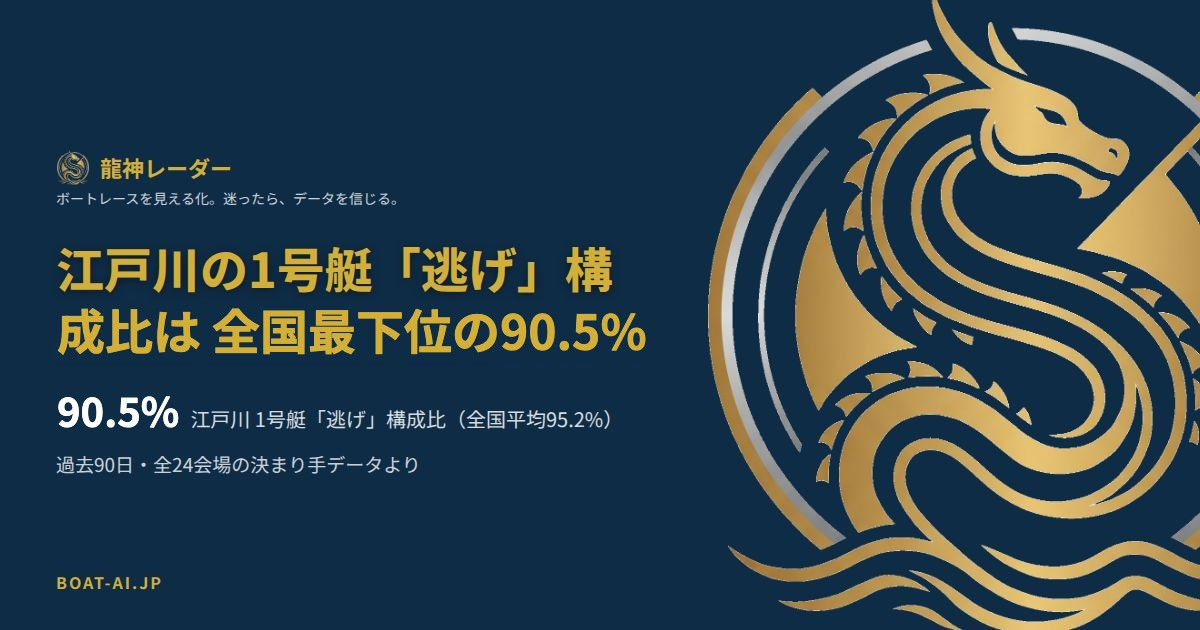
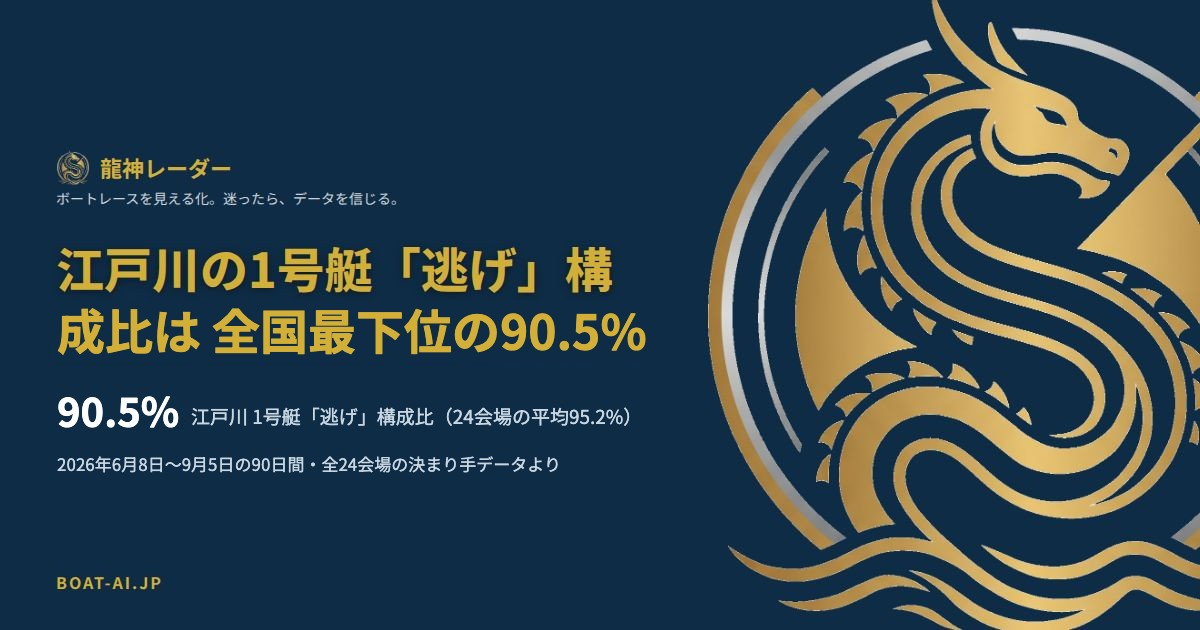
content(blog): edogawa-nige-technique-share の表紙の語と期間、見出しの断定、検定の説明を直す

Changed region(s): [[0.1542, 0.6333, 0.5242, 0.6937], [0.0308, 0.7238, 0.4625, 0.754]]

diff --git a/public/blog/edogawa-nige-technique-share.md b/public/blog/edogawa-nige-technique-share.md
@@ -16,7 +16,7 @@
 
 ## 実データ：江戸川90.5% vs 24会場の平均95.2%
 
-記事の公開前日までの90日間（2026年6月8日〜9月5日、中止を除き決まり手のあるレース）の実レース結果から、「1号艇が1着になったレースのうち、決まり手が『逃げ』だったレースの割合」を24会場すべてで集計し、順位をつけました。決まり手データ分析の画面と同じ数え方です。
+記事の公開前日までの90日間（2026年6月8日〜9月5日、中止を除き決まり手のあるレース）の実レース結果から、「1号艇が1着になったレースのうち、決まり手が『逃げ』だったレースの割合」を24会場すべてで集計し、順位をつけました。決まり手データ分析の画面と同じ集計の方法です。
 
 | 順位 | 会場 | 1号艇「逃げ」構成比 | 集計レース数 |
 |------|------|-------------------|--------------|
@@ -31,13 +31,13 @@
 
 ### この差は偶然か
 
-90日間だけでは件数が少なく、江戸川とほかの23会場をまとめた値の差（フィッシャーの正確確率検定でp=0.004）も、24会場を同時に比べる補正（ボンフェローニ補正）をするとp=0.09で、偶然の範囲を外れるとまでは言えません。
+90日間だけでは件数が少なく、偶然でもこのくらいの差が出ることがあります。江戸川とほかの23会場をまとめた値の差は、フィッシャーの正確確率検定でp=0.004（p は偶然でもこの差が出る確率の目安）でした。ただし24会場を同時に比べる補正（ボンフェローニ補正）をするとp=0.09で、偶然の範囲を外れるとまでは言えません。
 
-そこで、公式の競走成績で2020年〜2024年の5年間を見ると、江戸川の1号艇「逃げ」構成比は91.85%（4,836レース中4,442勝）で、やはり24会場で最も低い値でした（24会場の平均94.79%）。ほかの23会場をまとめた値との差は、24会場ぶんの補正をしても偶然では説明しにくい大きさです（補正後p<0.001）。ただし2番目に低い戸田（92.93%、5,123レース中4,761勝）との差は1.1ポイントで、「江戸川だけが飛び抜けて低い」とまでは言えません。
+そこで、公式の競走成績で2020年〜2024年の5年間を見ると、江戸川の1号艇「逃げ」構成比は91.85%（4,836レース中4,442勝）で、やはり24会場で最も低い値でした（24会場の値の単純平均は94.79%）。ほかの23会場をまとめた値との差は、24会場ぶんの補正をしても偶然では説明しにくい大きさです（補正後p<0.001）。ただし2番目に低い戸田（92.93%、5,123レース中4,761勝）との差は1.1ポイントで、「江戸川だけが飛び抜けて低い」とまでは言えません。
 
 ※ 公開時の本文の数字（187レース中170勝など）は集計期間の終わりが書かれておらず再現できなかったため、期間を固定して集計し直しました。
 
-## なぜ江戸川だけ「逃げ」の構成比が下がるのか——「抜き」が全国トップ
+## 江戸川で「逃げ」の構成比が低いのはなぜか——「抜き」が24会場で最も高い
 
 構成比の内訳を見ると、江戸川で「逃げ」の代わりに増えている決まり手が見えてきます。江戸川の1号艇が「逃げ」以外で1着になった19レースのうち18レースが「抜き」で、その構成比は9.00%（200レース中18勝）。これは同じ90日間の24会場の中で最も高い数値で、24会場の平均4.43%のほぼ2倍にあたります。2020年〜2024年の5年間でも、江戸川の「抜き」は7.84%（4,836レース中379勝）で24会場で最も高い値でした（24会場の平均4.77%）。
 
@@ -48,8 +48,8 @@
 ## 実践への活かし方
 
 - **江戸川の1号艇は「逃げ切り」を過信しない**: 逃げ構成比90.5%（90日間）は24会場で最も低い水準で、5年間で見ても最も低い会場です。レース中盤で一度先頭を譲る展開が他会場より起こりやすいと考えられます。1号艇が本命でも、決まり手まで含めて「逃げ切るとは限らない」という前提で舟券を組み立てましょう
-- **「抜き」を絡めた買い方も検討する**: 江戸川では1号艇が最終的に勝つ場合でも「抜き」の可能性があるため、2着・3着の候補を広めに持つ戦略が有効な場面があります
-- **他会場と比較してから判断する**: [決まり手データ分析](/winning-technique?tab=technique)で他の会場の1号艇構成比と見比べると、江戸川がどれだけ特殊な会場かが一目でわかります
+- **「抜き」を絡めた買い方も検討する**: 江戸川では1号艇が最終的に勝つ場合でも「抜き」の可能性があるため、2着・3着の候補を広めに持つ考え方もあります
+- **他会場と比較してから判断する**: [決まり手データ分析](/winning-technique?tab=technique)で他の会場の1号艇構成比と見比べると、江戸川の値がどれだけ低いかが一目でわかります
 
 ## この機能の使い方
 
